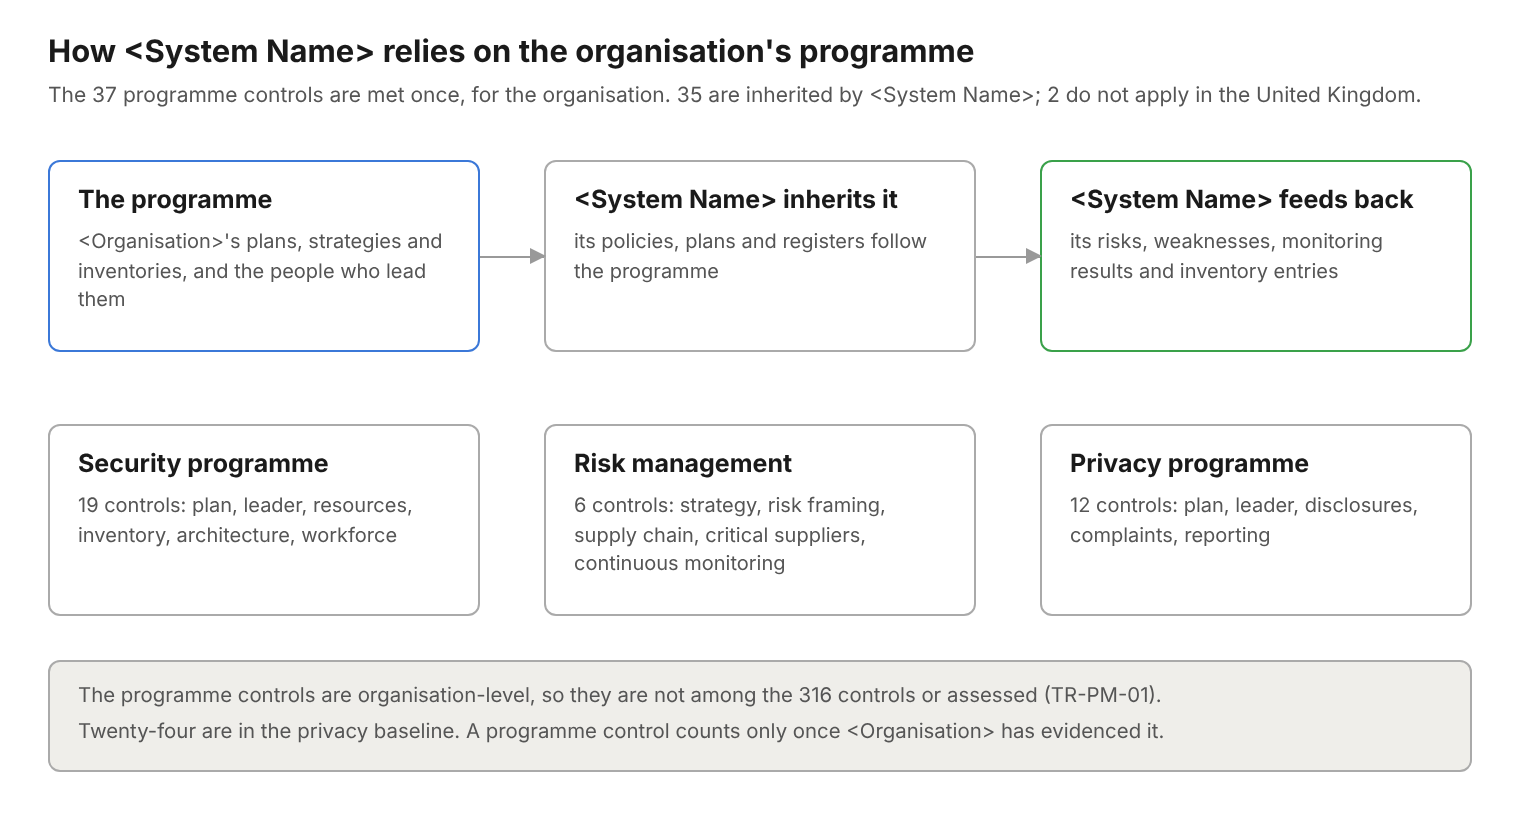
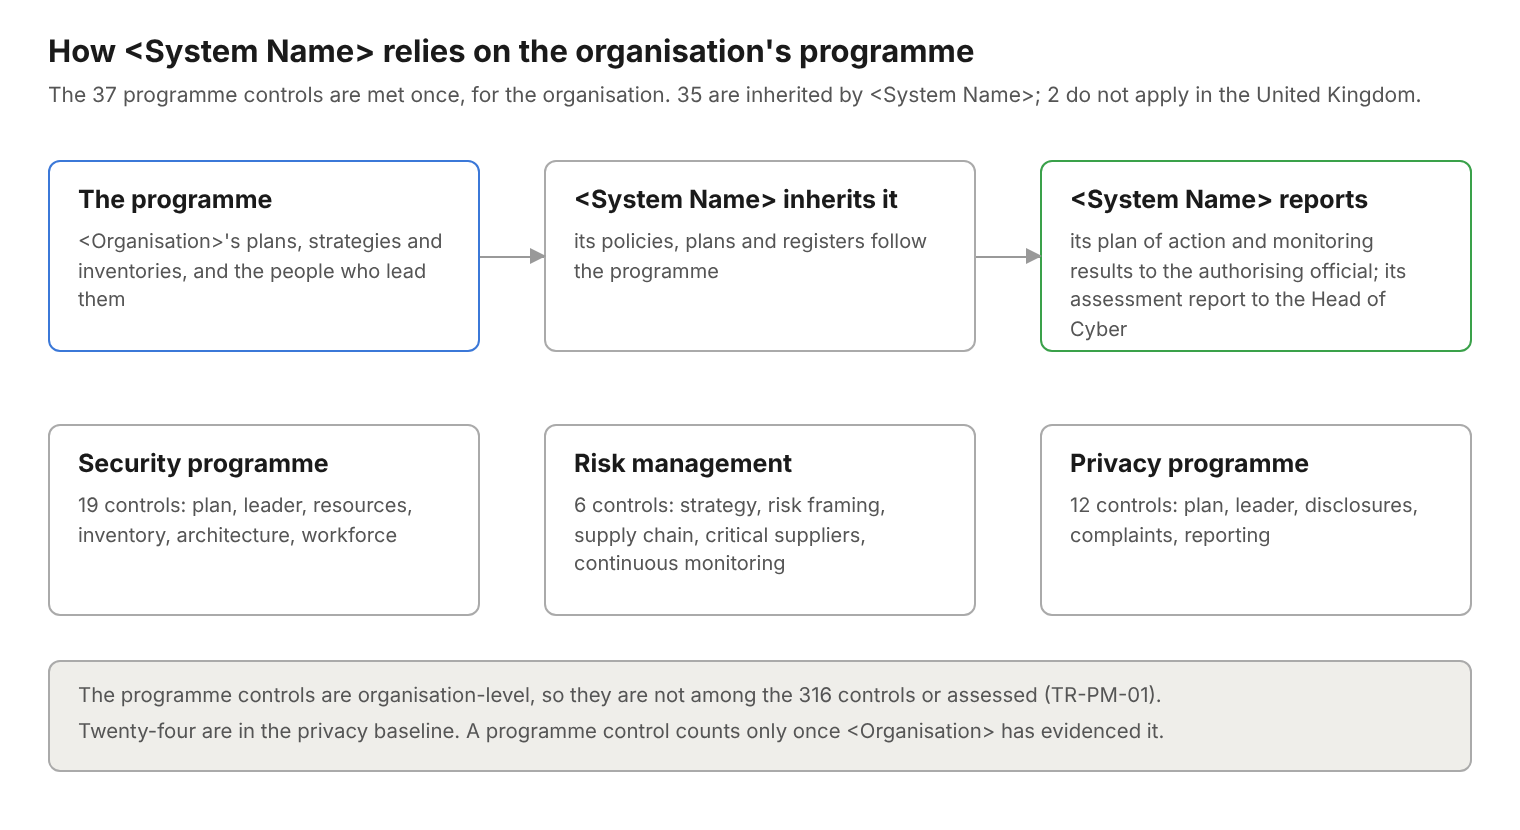
PM decision (Neil's choice): the quarterly POA&M and monitoring report stays with the authorising official only; Program Management PM-4, PM-6 and PM-31 rows and principle 3, R-PM-02, System Description and the figure no longer say the system's records feed the organisation's programme
Claude-Session: https://claude.ai/code/session_011QHn64inwdV1UUTuVXhzMi

Changed region(s): [[0.7112, 0.2108, 0.9276, 0.4217]]

diff --git a/Risk List.md b/Risk List.md
@@ -42,7 +42,7 @@ The register has one entry for each risk. Likelihood, impact and rating follow s
 | R-PL-01 | Planning values, plan approvals and decisions are used before they are approved | P-71 (D-PL-P71), the approval of \<System Security Plan\> (D-PL-01) and \<Privacy Plan\> (D-PL-02), the baseline (D-PL-03) and the rules of behaviour (D-PL-04) in \<Decision Register\> have no signed decision; \<Policy\> (PL) is not approved; the register of plans has no versions; the restricted store is not set up; no plan review, architecture review or signature of the rules has yet been recorded | The plans are relied on, shared and protected on terms nobody with authority has accepted, a person is given access without a signed and current version of the rules, and an assessor finds PL-2, PL-4 and PL-10 other than satisfied | Medium | Low | Low | Approve: the authorising official approves D-PL-01 to D-PL-03, the system owner P-71 and D-PL-04, the legal adviser D-PL-02 with the authorising official, and the Head of Cyber \<Policy\> (PL); the register of plans is given its versions, and the first signatures and plan review are recorded before access is given | Low | System owner | None | Open | \[Date\] |
 | R-PL-02 | The enterprise architecture and hosting \<System Name\>'s plans rely on from \<Organisation\> differ from what the design assumes | The evidence requested for PL (\<Evidence Requests\>, EV-PL-01 and EV-GEN-04) has not been seen | The plans and architecture do not fit \<Organisation\>'s enterprise architecture, or the hypervisor beneath the servers is run by someone outside the Cyber Essentials Plus scope, so a dependency in \<System Description\>, section 6.8, is wrong | Low | Medium | Low | Evidence: obtain and examine the evidence, then confirm the architecture and its assumptions or re-rate each entry | Low | System owner | None | Open | \[Date\] |
 | R-PM-01 | The PM controls are relied on as \<Organisation\>'s without an approved decision | TR-PM-01, which designates every PM control as a common control provided by \<Organisation\> and not assessed for \<System Name\>, including the 24 in the privacy baseline (D-PM-01), has no signed decision; the Head of Cyber's confirmation of the senior information security officer role and of the risk thresholds, and the legal adviser's naming of the data protection officer, are not recorded | The privacy baseline is applied with 24 controls left out on nobody's authority, and an assessor finds the authorisation rests on a programme nobody has accepted | Medium | Low | Low | Approve: the authorising official approves D-PM-01; the Head of Cyber and the legal adviser complete their rows in \<Roles and Responsibilities\> | Low | System owner | None | Open | \[Date\] |
-| R-PM-02 | The security and privacy programme \<System Name\> relies on from \<Organisation\> is weaker than the design assumes | The evidence requested for PM (\<Evidence Requests\>, EV-PM-01 to EV-PM-04 and EV-PL-01) has not been seen, and \<System Name\>'s own documents stand in for it (\<Program Management\>, section 3.1) | No senior information security officer or data protection officer is in post; \<System Name\>'s risk thresholds sit outside \<Organisation\>'s risk appetite; \<System Name\> is missing from the system inventory or the record of processing; or complaints, breach reports, plans of action and monitoring results do not reach the people in \<Organisation\> who must act on them | Low | Medium | Low | Evidence: obtain and examine the evidence, first \<Organisation\>'s ISO/IEC 27001 certificate with its scope and Statement of Applicability, then confirm each dependency in \<Program Management\>, section 3.3, or raise the shortfall as a risk | Low | System owner | None | Open | \[Date\] |
+| R-PM-02 | The security and privacy programme \<System Name\> relies on from \<Organisation\> is weaker than the design assumes | The evidence requested for PM (\<Evidence Requests\>, EV-PM-01 to EV-PM-04 and EV-PL-01) has not been seen, and \<System Name\>'s own documents stand in for it (\<Program Management\>, section 3.1) | No senior information security officer or data protection officer is in post; \<System Name\>'s risk thresholds sit outside \<Organisation\>'s risk appetite; \<System Name\> is missing from the system inventory or the record of processing; complaints and breach reports do not reach the people in \<Organisation\> who must act on them; or \<Organisation\>'s own processes need \<System Name\>'s plan of action or monitoring results, which go only to the authorising official | Low | Medium | Low | Evidence: obtain and examine the evidence, first \<Organisation\>'s ISO/IEC 27001 certificate with its scope and Statement of Applicability, then confirm each dependency in \<Program Management\>, section 3.3, or raise the shortfall as a risk | Low | System owner | None | Open | \[Date\] |
 | \[R-XX-nn\] | \[Risk\] | \[Cause\] | \[Consequence\] | \[Likelihood\] | \[Impact\] | \[Rating\] | \[Treatment\] | \[Residual\] | \[Owner\] | \[PA-nn\] | \[Status\] | \[Date\] |
 
 ## 3 Risk acceptance

diff --git a/Program Management.md b/Program Management.md
@@ -48,7 +48,7 @@ PM controls relied on here: PM-1, PM-4, PM-31.
 
 1. **One programme.** \<Organisation\> runs one security and privacy programme, and \<System Name\> is one system within it.
 2. **Inherit with evidence.** A common control counts for \<System Name\> only once \<Organisation\> has evidenced it. Before \<System Name\> operates, the authorising official accepts reliance on the programme for the 35 inherited PM controls as one line on TPL-18, naming any not yet evidenced.
-3. **Follow, and feed back.** \<System Name\>'s policies, plans and registers follow the programme, and its risks, weaknesses and monitoring results feed back into it.
+3. **Follow, and report to the authorising official.** \<System Name\>'s policies, plans and registers follow the programme. Its plan of action and monitoring results are reported each quarter to the authorising official only (\<Assessment, Authorization, and Monitoring Management\>, sections 3.4 and 3.8); the Head of Cyber receives the assessment report and the authorisation decision. Whether anything more must reach \<Organisation\>'s own processes is for \<Organisation\> to say (EV-PM-01, EV-PM-03).
 4. **Stand in, and say so.** Where \<Organisation\>'s document has not been seen, \<System Name\>'s own document stands in, and the dependency is checked when the evidence arrives.
 
 ![Figure 1: How \<System Name\> relies on the organisation's programme](figures/pmm-figure-1.png)
@@ -84,10 +84,10 @@ Each PM control is listed with who provides it, which \<System Name\> controls r
 | PM-1 Information Security Program Plan | \<Organisation\>, Head of Cyber | Every family's policy (xx-1) | The 19 family policies follow it | EV-PM-01 | No |
 | PM-2 Information Security Program Leadership Role | \<Organisation\>, which appoints the Head of Cyber | All | \[Name\] named as senior information security officer in \<System Security Plan\> | EV-PM-01 | No |
 | PM-3 Information Security and Privacy Resources | \<Organisation\> | CA-5, SA-2 | Fixes costed in \<Plan of Action and Milestones\>, and on TPL-23 | EV-PM-01 | Yes |
-| PM-4 Plan of Action and Milestones Process | \<Organisation\>, Head of Cyber | CA-5 | \<Plan of Action and Milestones\> feeds it | EV-PM-01 | Yes |
+| PM-4 Plan of Action and Milestones Process | \<Organisation\>, Head of Cyber | CA-5 | \<Plan of Action and Milestones\> is kept for \<System Name\>, and its overdue items are reported each quarter to the authorising official. It is not sent to \<Organisation\>'s own process, which has not been seen | EV-PM-01 | Yes |
 | PM-5 System Inventory | \<Organisation\> | CM-8, PL-2 | A system identifier, shown as a placeholder in \<System Security Plan\>, section 2 | EV-PM-02 | No |
 | PM-5(1) Inventory of Personally Identifiable Information | \<Organisation\>, legal adviser | PT-2, PT-3, CM-12 | Personal data inventory in \<PII Processing Management\>, section 3.3 | EV-PM-02 | Yes |
-| PM-6 Measures of Performance | Head of Cyber | CA-7 | Monitoring results in \<Assessment, Authorization, and Monitoring Management\> | EV-PM-03 | Yes |
+| PM-6 Measures of Performance | Head of Cyber | CA-7 | \<System Name\>'s own measures in \<Assessment, Authorization, and Monitoring Management\>, section 3.8, reported to the authorising official. They are not part of \<Organisation\>'s measures | EV-PM-03 | Yes |
 | PM-7 Enterprise Architecture | \<Organisation\> | PL-2, PL-8, SA-17 | \<System Description\>, section 6, fits it | EV-PL-01 | Yes |
 | PM-7(1) Offloading | \<Organisation\> | PL-8, SA-8 | None | EV-PL-01 | No |
 | PM-8 Critical Infrastructure Plan | \<Organisation\> | CP-2 | None; \<System Name\> is not critical infrastructure | EV-PM-01 | Yes |
@@ -116,7 +116,7 @@ Each PM control is listed with who provides it, which \<System Name\> controls r
 | PM-29 Risk Management Program Leadership Roles | \<Organisation\> | All | None | EV-PM-01 | No |
 | PM-30 Supply Chain Risk Management Strategy | \<Organisation\> | SR-2, SR-3 | \<Supply Chain Risk Management\> follows it | EV-PM-03 | No |
 | PM-30(1) Suppliers of Critical or Mission-essential Items | \<Organisation\> | RA-9, SR-3, SR-6 | The supplier register with criticality in \<Supply Chain Risk Management\>, section 3.5, and the critical components in \<Risk Assessment Management\>, section 3.9 | EV-PM-03 | No |
-| PM-31 Continuous Monitoring Strategy | \<Organisation\>, Head of Cyber | CA-7 | \<Assessment, Authorization, and Monitoring Management\> follows it | EV-PM-03 | Yes |
+| PM-31 Continuous Monitoring Strategy | \<Organisation\>, Head of Cyber | CA-7 | \<Assessment, Authorization, and Monitoring Management\>, section 3.8, follows it; \<System Name\>'s status is reported to the authorising official, not to \<Organisation\>'s programme | EV-PM-03 | Yes |
 | PM-32 Purposing | \<Organisation\> | SA-8 | \<Concept of Operations\> states \<System Name\>'s purpose | EV-PM-01 | No |
 
 Where \<Organisation\>'s document is not yet seen, \<System Name\>'s own document stands in, and the dependency is checked when the evidence arrives.

diff --git a/System Description.md b/System Description.md
@@ -971,7 +971,7 @@ Table 45 gives each CSS control family, the reference design in brief, and the d
 | MP Media Protection | Items stay in the database. Exports are limited, encrypted, marked and removed; portable storage needs approval; media are sanitised to CSS | \<Media Protection Management\> |
 | PE Physical and Environmental Protection | Provided by \<Organisation\> at its data centre and second site, including a clean shutdown of the servers if power cannot be kept. The system owner checks its evidence each year and sets rules for offices and home working (P-70) | \<Physical and Environmental Protection Management\> |
 | PL Planning | A security plan, a privacy plan and rules of behaviour that every user signs, all checked for consistency before each issue | \<Planning Management\> |
-| PM Program Management | Not among the 316 controls. Inherited from \<Organisation\>'s security and privacy programme: 35 controls, with PM-17 and PM-24 not applicable. \<System Name\> claims none of them, and its plans, registers and monitoring feed the programme | \<Program Management\> |
+| PM Program Management | Not among the 316 controls. Inherited from \<Organisation\>'s security and privacy programme: 35 controls, with PM-17 and PM-24 not applicable. \<System Name\> claims none of them, and its plans and registers follow the programme | \<Program Management\> |
 | PS Personnel Security | \<Organisation\> screens staff. Every role has a risk designation; access agreements are signed; a leaver's account is disabled at once | \<Personnel Security Management\> |
 | PT PII Processing and Transparency | Personal data is processed only for the purposes in the profile. An inventory, a retention schedule built into the system, a search across schemas for people's requests, and an impact assessment | \<PII Processing Management\> |
 | RA Risk Assessment | Categorised from the profile. A threat model, a risk list on the CSS method, a vulnerability timetable (P-11), and a list of critical components | \<Risk Assessment Management\> |
